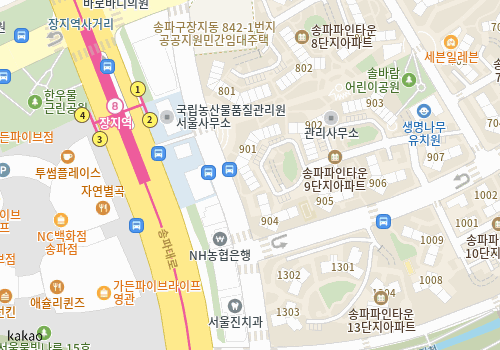
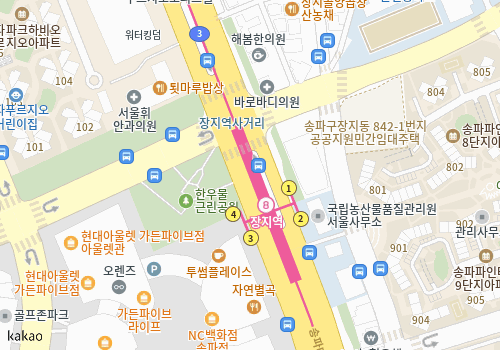
지도 좌표 최종 수정 - 문정동 632 가든파이브웍스 정확한 위치(37.4789,127.1260)

diff --git a/wedding/index.html b/wedding/index.html
@@ -600,7 +600,7 @@ footer a { color: #888; text-decoration: none; margin-top: 8px; display: inline-
                     <button class="copy-icon" onclick="copyText('서울 송파구 충민로 52 가든파이브웍스 1층')" aria-label="주소 복사">📋</button>
                 </div>
                 <div class="map-container">
-                    <a href="https://map.kakao.com/link/search/서울 송파구 충민로 52 가든파이브웍스" target="_blank" class="map-wrap">
+                    <a href="https://map.kakao.com/link/search/송파구 문정동 632 가든파이브웍스" target="_blank" class="map-wrap">
                         <img src="map.png" alt="엘로라 인 가든 지도" style="width:100%;border-radius:12px;display:block;">
                         <div class="map-marker">
                             <svg width="32" height="42" viewBox="0 0 32 42" fill="none" xmlns="http://www.w3.org/2000/svg">
